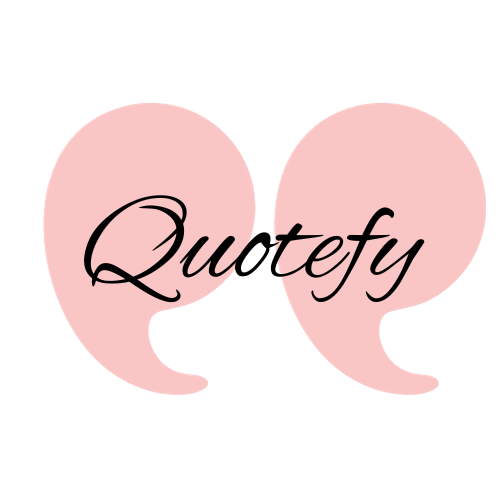
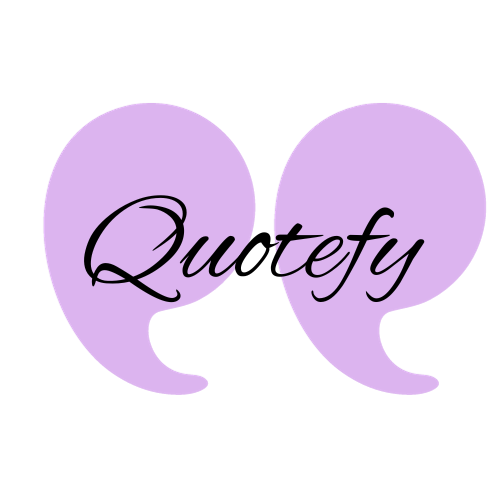
Add files via upload

diff --git a/Style.css b/Style.css
@@ -5,7 +5,7 @@
     font-family: 'Lobster Two', cursive;
 }
 body{
-    background: rgb(247, 222, 192);
+    background: #eae0ee;
 }
 .quote-box{
     background: #fff;
@@ -30,7 +30,7 @@ body{
     width: 75px;
     height: 3px;
     border-radius: 3px;
-    background: rgb(237, 179, 108);
+    background: #c08cd8;
     position: absolute;
     bottom: -10px;
     left: 50%;
@@ -47,7 +47,7 @@ body{
     display: block;
     margin-top: 10px;
     font-size: 20px;
-    color: rgb(82, 47, 4);
+    color: #5c2376;
     float: right;
     position: relative;
 }
@@ -55,7 +55,7 @@ body{
     content: '';
     width: 18px;
     height: 3px;
-    background: rgb(237, 179, 108);
+    background: #c08cd8;
     position: absolute;
     top: 50%;
     left: -30px;
@@ -67,11 +67,11 @@ body{
     justify-content: center;
 }
 .quote-box button{
-    background: rgb(237, 179, 108);
+    background: #d0a4e5;
     font-size: 22px;
     color: #fff;
     border-radius: 25px;
-    border: 1px sold rgb(237, 179, 108);
+    border: 1px sold #c08cd8;
     width: 150px;
     height: 50px;
     display: flex;
@@ -86,7 +86,7 @@ body{
 }
 .quote-box button:nth-child(2){
     background: transparent;
-    color:rgb(82, 47, 4);
+    color:#5c2376;
 }
 
 @media (max-width: 400px) {
@@ -106,13 +106,13 @@ body{
         font-size: 15px;
     }
     .quote-box button{
-        font-size: 12px;
+        font-size: 14px;
         width: 100px;
         height: 40px;
         margin: 10px;
     }
     .quote-box button img{
-        width: 22px;
+        width: 25px;
         margin-right: 5px;
     }
 }
